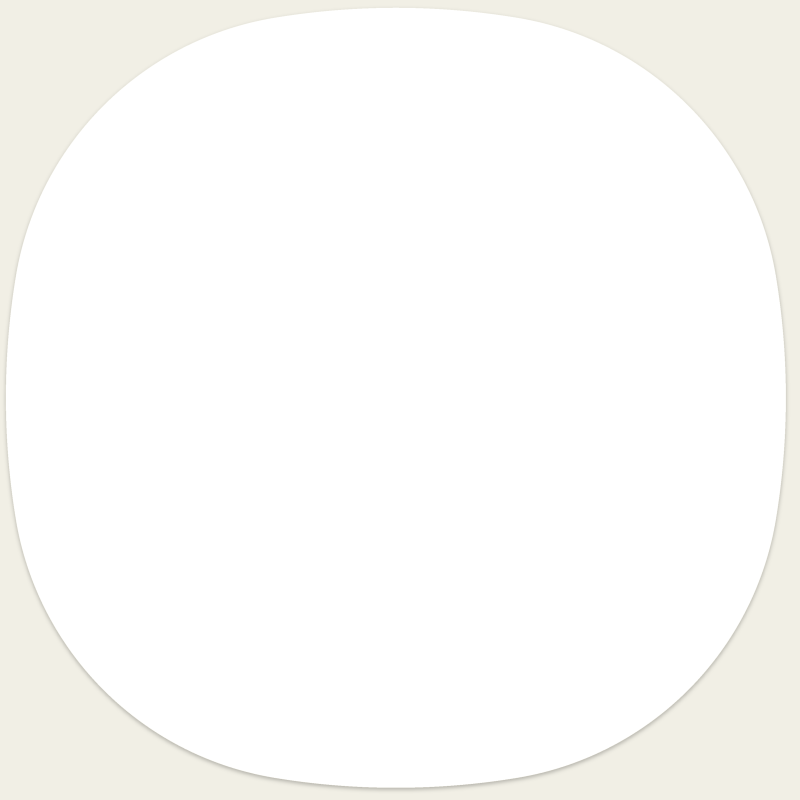
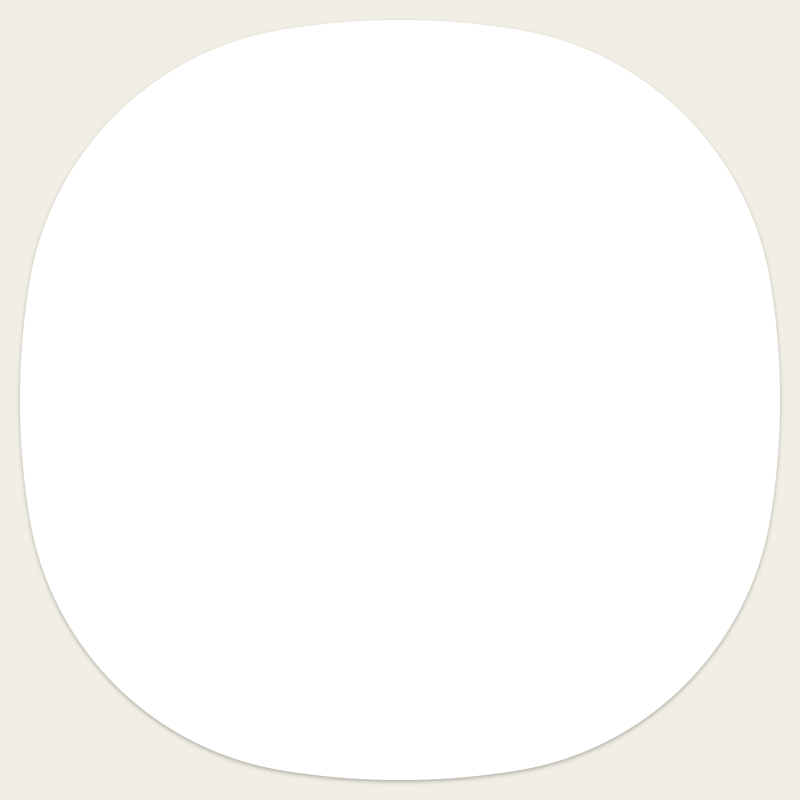
fix mask

diff --git a/docs/css/style.css b/docs/css/style.css
@@ -1,1 +1,1 @@
-*,::after,::before{box-sizing:border-box}blockquote,body,dd,dl,figure,h1,h2,h3,h4,p{margin:0}ol[role=list],ul[role=list]{list-style:none}html:focus-within{scroll-behavior:smooth}body{min-height:100vh;text-rendering:optimizeSpeed;line-height:1.5}a:not([class]){text-decoration-skip-ink:auto}img,picture{max-width:100%;display:block}button,input,select,textarea{font:inherit}body,html{font-family:Nunito,'M PLUS Rounded 1c',sans-serif;color:#333;background:#f1efe5}div.main{width:100%;max-width:800px;margin:0 auto;text-align:center}header{padding:40px 20px}header h1{font-size:1.4em}header small{font-size:.8em}footer,section div.setting-container{padding:20px}section div.setting-container input[type=text],section div.setting-container span{display:inline-block;border:none;height:36px;line-height:16px;font-size:16px;padding:10px;border-radius:5px}section div.setting-container input[type=text]{background:#e8e5d4}section div.preview-container{position:relative;width:90%;max-width:400px;margin:0 auto 20px;overflow:hidden}section div.preview-container:before{content:"";display:block;padding-top:100%}section div.preview-container:after{content:"";z-index:0;background:#fff}section div.preview-container img,section div.preview-container:after{position:absolute;top:1%;left:1%;bottom:1%;right:1%}section div.preview-container div.icon-mask{position:absolute;top:0;left:0;bottom:0;right:0;z-index:10;background:url(../img/icon-mask.png) center center/100% no-repeat;pointer-events:none}section div.preview-container img{z-index:1;background:#fff;cursor:pointer}section div.preview-container canvas,section div.preview-container input[type=file]{display:none}@media (prefers-reduced-motion:reduce){html:focus-within{scroll-behavior:auto}*,::after,::before{animation-duration:NaNs!important;animation-iteration-count:1!important;transition-duration:NaNs!important;scroll-behavior:auto!important}}
+*,::after,::before{box-sizing:border-box}blockquote,body,dd,dl,figure,h1,h2,h3,h4,p{margin:0}ol[role=list],ul[role=list]{list-style:none}html:focus-within{scroll-behavior:smooth}body{min-height:100vh;text-rendering:optimizeSpeed;line-height:1.5}a:not([class]){text-decoration-skip-ink:auto}img,picture{max-width:100%;display:block}button,input,select,textarea{font:inherit}body,html{font-family:Nunito,'M PLUS Rounded 1c',sans-serif;color:#333;background:#f1efe5}div.main{width:100%;max-width:800px;margin:0 auto;text-align:center}header{padding:40px 20px}header h1{font-size:1.4em}header small{font-size:.8em}footer,section div.setting-container{padding:20px}section div.setting-container input[type=text],section div.setting-container span{display:inline-block;border:none;height:36px;line-height:16px;font-size:16px;padding:10px;border-radius:5px}section div.setting-container input[type=text]{background:#e8e5d4}section div.preview-container{position:relative;width:90%;max-width:400px;margin:0 auto 20px;overflow:hidden}section div.preview-container:before{content:"";display:block;padding-top:100%}section div.preview-container:after{content:"";z-index:0;background:#fff}section div.preview-container img,section div.preview-container:after{position:absolute;top:1%;left:1%;bottom:1%;right:1%}section div.preview-container div.icon-mask{position:absolute;top:0;left:0;bottom:0;right:0;z-index:10;background:url(../img/icon-mask.png) center center/100% no-repeat;pointer-events:none}section div.preview-container img{height:98%;width:98%;z-index:1;background:#fff;cursor:pointer}section div.preview-container canvas,section div.preview-container input[type=file]{display:none}@media (prefers-reduced-motion:reduce){html:focus-within{scroll-behavior:auto}*,::after,::before{animation-duration:NaNs!important;animation-iteration-count:1!important;transition-duration:NaNs!important;scroll-behavior:auto!important}}

diff --git a/docs/index.html b/docs/index.html
@@ -31,6 +31,6 @@
   </footer>
 </div>
 <script src="https://cdn.jsdelivr.net/npm/vue/dist/vue.min.js"></script>
-<script type="text/javascript" src="js/chim.js"></script>
+<script type="text/javascript" src="js/chim.js?v=0.1"></script>
 </body>
 </html>

diff --git a/src/css/style.scss b/src/css/style.scss
@@ -76,6 +76,8 @@ section {
       pointer-events: none;
     }
     img {
+      height: 98%;
+      width: 98%;
       z-index: 1;
       background: white;
       cursor: pointer;
